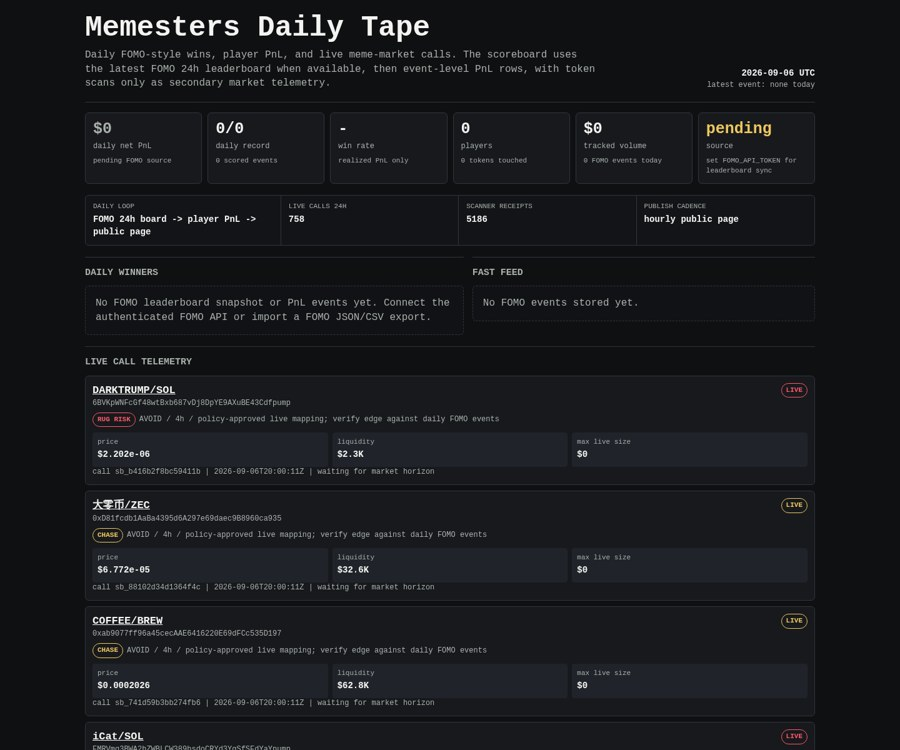
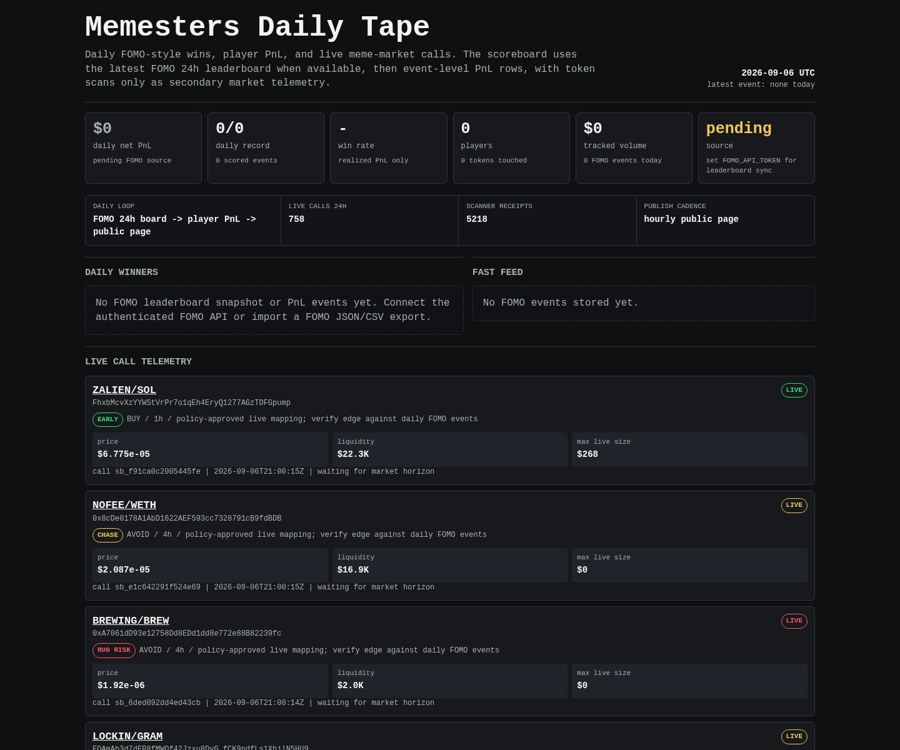
Update Memesters scoreboard

diff --git a/memesters/index.html b/memesters/index.html
@@ -150,7 +150,7 @@
     <div class="rail" aria-label="live operating loop">
       <div><span>daily loop</span><b>FOMO 24h board -> player PnL -> public page</b></div>
       <div><span>live calls 24h</span><b>758</b></div>
-      <div><span>scanner receipts</span><b>5186</b></div>
+      <div><span>scanner receipts</span><b>5218</b></div>
       <div><span>publish cadence</span><b>hourly public page</b></div>
     </div>
 
@@ -171,92 +171,8 @@
     <article class="receipt">
       <div class="receipt-head">
         <div>
-          <div class="pair"><a href="https://dexscreener.com/solana/bhqjzchm6eu9c7fbzj6pkftmfz7atuacqn2kdmsktrlm">DARKTRUMP/SOL</a></div>
-          <div class="addr">6BVKpWNFcGf48wtBxb687vDj8DpYE9AXuBE43Cdfpump</div>
-          <div class="addr policy-line">
-            <span class="badge rug-risk">RUG RISK</span>
-            <span>AVOID / 4h / policy-approved live mapping; verify edge against daily FOMO events</span>
-          </div>
-        </div>
-        <span class="badge rug-risk">LIVE</span>
-      </div>
-      <div class="receipt-grid">
-        <div class="kv"><span>price</span><b>$2.202e-06</b></div>
-        <div class="kv"><span>liquidity</span><b>$2.3K</b></div>
-        <div class="kv"><span>max live size</span><b>$0</b></div>
-      </div>
-      <div class="outcomes">call sb_b416b2f8bc59411b | 2026-09-06T20:00:11Z | waiting for market horizon</div>
-    </article>
-    
-
-    <article class="receipt">
-      <div class="receipt-head">
-        <div>
-          <div class="pair"><a href="https://dexscreener.com/bsc/0xbfc892627795a36b4a94a91487ffa52661dda88c">大零币/ZEC</a></div>
-          <div class="addr">0xD81fcdb1AaBa4395d6A297e69daec9B8960ca935</div>
-          <div class="addr policy-line">
-            <span class="badge chase">CHASE</span>
-            <span>AVOID / 4h / policy-approved live mapping; verify edge against daily FOMO events</span>
-          </div>
-        </div>
-        <span class="badge chase">LIVE</span>
-      </div>
-      <div class="receipt-grid">
-        <div class="kv"><span>price</span><b>$6.772e-05</b></div>
-        <div class="kv"><span>liquidity</span><b>$32.6K</b></div>
-        <div class="kv"><span>max live size</span><b>$0</b></div>
-      </div>
-      <div class="outcomes">call sb_88102d34d1364f4c | 2026-09-06T20:00:11Z | waiting for market horizon</div>
-    </article>
-    
-
-    <article class="receipt">
-      <div class="receipt-head">
-        <div>
-          <div class="pair"><a href="https://dexscreener.com/bsc/0x50ace85a000c68af9add2dbbb4101c5fd2e57eb6">COFFEE/BREW</a></div>
-          <div class="addr">0xab9077ff96a45cecAAE6416220E69dFCc535D197</div>
-          <div class="addr policy-line">
-            <span class="badge chase">CHASE</span>
-            <span>AVOID / 4h / policy-approved live mapping; verify edge against daily FOMO events</span>
-          </div>
-        </div>
-        <span class="badge chase">LIVE</span>
-      </div>
-      <div class="receipt-grid">
-        <div class="kv"><span>price</span><b>$0.0002026</b></div>
-        <div class="kv"><span>liquidity</span><b>$62.8K</b></div>
-        <div class="kv"><span>max live size</span><b>$0</b></div>
-      </div>
-      <div class="outcomes">call sb_741d59b3bb274fb6 | 2026-09-06T20:00:11Z | waiting for market horizon</div>
-    </article>
-    
-
-    <article class="receipt">
-      <div class="receipt-head">
-        <div>
-          <div class="pair"><a href="https://dexscreener.com/solana/68smt7tq5k9zxnkgbvra3v9uhskurddwa67oazkcanbv">iCat/SOL</a></div>
-          <div class="addr">FMRVmq3BWA2hZWBLCW389bsdoCRYd3YgSfSFdYaYpump</div>
-          <div class="addr policy-line">
-            <span class="badge rug-risk">RUG RISK</span>
-            <span>AVOID / 4h / policy-approved live mapping; verify edge against daily FOMO events</span>
-          </div>
-        </div>
-        <span class="badge rug-risk">LIVE</span>
-      </div>
-      <div class="receipt-grid">
-        <div class="kv"><span>price</span><b>$4.548e-05</b></div>
-        <div class="kv"><span>liquidity</span><b>$16.7K</b></div>
-        <div class="kv"><span>max live size</span><b>$0</b></div>
-      </div>
-      <div class="outcomes">call sb_9a498c8ea03a43ff | 2026-09-06T20:00:11Z | waiting for market horizon</div>
-    </article>
-    
-
-    <article class="receipt">
-      <div class="receipt-head">
-        <div>
-          <div class="pair"><a href="https://dexscreener.com/robinhood/0x9fe58c30e02c253a4e098702aa916cfbd4bddf6d3fdb0cb822a1bcc7a775e06a">ZSTOCK/ETH</a></div>
-          <div class="addr">0xe4e86C13CaADfC30B7211b80e839972423307258</div>
+          <div class="pair"><a href="https://dexscreener.com/solana/4gbepcuge1rgb8jdbmahrtfttazmf7r1r6ertteailel">ZALIEN/SOL</a></div>
+          <div class="addr">FhxbMcvXzYYWStVrPr7o1qEh4EryQ1277AGzTDFGpump</div>
           <div class="addr policy-line">
             <span class="badge early">EARLY</span>
             <span>BUY / 1h / policy-approved live mapping; verify edge against daily FOMO events</span>
@@ -265,19 +181,19 @@
         <span class="badge early">LIVE</span>
       </div>
       <div class="receipt-grid">
-        <div class="kv"><span>price</span><b>$3.239e-05</b></div>
-        <div class="kv"><span>liquidity</span><b>$16.6K</b></div>
-        <div class="kv"><span>max live size</span><b>$200</b></div>
+        <div class="kv"><span>price</span><b>$6.775e-05</b></div>
+        <div class="kv"><span>liquidity</span><b>$22.3K</b></div>
+        <div class="kv"><span>max live size</span><b>$268</b></div>
       </div>
-      <div class="outcomes">call sb_7ba06cbbcba84036 | 2026-09-06T20:00:11Z | waiting for market horizon</div>
+      <div class="outcomes">call sb_f91ca0c2005445fe | 2026-09-06T21:00:15Z | waiting for market horizon</div>
     </article>
     
 
     <article class="receipt">
       <div class="receipt-head">
         <div>
-          <div class="pair"><a href="https://dexscreener.com/robinhood/0x5d939105e4f5ebc4a9d635da350dcadb767e7aca">MEME/WETH</a></div>
-          <div class="addr">0xe51f1A416cC446B847830Dca4aF67844bac99e8F</div>
+          <div class="pair"><a href="https://dexscreener.com/robinhood/0x81d5896ec1144f598c20d7714dbfa65b41161168">NOFEE/WETH</a></div>
+          <div class="addr">0x8cDe0178A1AbD1622AEF593cc7328791cB9fdBDB</div>
           <div class="addr policy-line">
             <span class="badge chase">CHASE</span>
             <span>AVOID / 4h / policy-approved live mapping; verify edge against daily FOMO events</span>
@@ -286,19 +202,40 @@
         <span class="badge chase">LIVE</span>
       </div>
       <div class="receipt-grid">
-        <div class="kv"><span>price</span><b>$0.0001935</b></div>
-        <div class="kv"><span>liquidity</span><b>$44.4K</b></div>
+        <div class="kv"><span>price</span><b>$2.087e-05</b></div>
+        <div class="kv"><span>liquidity</span><b>$16.9K</b></div>
         <div class="kv"><span>max live size</span><b>$0</b></div>
       </div>
-      <div class="outcomes">call sb_ff81db9086754837 | 2026-09-06T20:00:11Z | waiting for market horizon</div>
+      <div class="outcomes">call sb_e1c642291f524e69 | 2026-09-06T21:00:15Z | waiting for market horizon</div>
     </article>
     
 
     <article class="receipt">
       <div class="receipt-head">
         <div>
-          <div class="pair"><a href="https://dexscreener.com/solana/iqjtch8688wdeh6szszgl2mrg4v2mexrl4wactnlgnm">AMC/SOL</a></div>
-          <div class="addr">FYmGPByNwL9hR8snVN6hnXTVGUE9u4XXPXgeDsuipump</div>
+          <div class="pair"><a href="https://dexscreener.com/bsc/0x62d81bc73188b59bba4ab0f55c0cb1421f5f1d7a">BREWING/BREW</a></div>
+          <div class="addr">0xA7061dD93e12758Dd8EDd1dd8e772e88B82239fc</div>
+          <div class="addr policy-line">
+            <span class="badge rug-risk">RUG RISK</span>
+            <span>AVOID / 4h / policy-approved live mapping; verify edge against daily FOMO events</span>
+          </div>
+        </div>
+        <span class="badge rug-risk">LIVE</span>
+      </div>
+      <div class="receipt-grid">
+        <div class="kv"><span>price</span><b>$1.92e-06</b></div>
+        <div class="kv"><span>liquidity</span><b>$2.0K</b></div>
+        <div class="kv"><span>max live size</span><b>$0</b></div>
+      </div>
+      <div class="outcomes">call sb_6ded092dd4ed43cb | 2026-09-06T21:00:14Z | waiting for market horizon</div>
+    </article>
+    
+
+    <article class="receipt">
+      <div class="receipt-head">
+        <div>
+          <div class="pair"><a href="https://dexscreener.com/ton/eqckj5g4vydzis-1xd13q8kxgzt7-xx_zpbky7sd3j-96xqj">LOCKIN/GRAM</a></div>
+          <div class="addr">EQAmAb3d7dEP8fMWOf42Jzxu8DyG_fCK9ndfLs1XhjlN5HU9</div>
           <div class="addr policy-line">
             <span class="badge chase">CHASE</span>
             <span>AVOID / 4h / policy-approved live mapping; verify edge against daily FOMO events</span>
@@ -307,19 +244,19 @@
         <span class="badge chase">LIVE</span>
       </div>
       <div class="receipt-grid">
-        <div class="kv"><span>price</span><b>$0.0001466</b></div>
-        <div class="kv"><span>liquidity</span><b>$31.4K</b></div>
+        <div class="kv"><span>price</span><b>$2.006e-05</b></div>
+        <div class="kv"><span>liquidity</span><b>$7.2K</b></div>
         <div class="kv"><span>max live size</span><b>$0</b></div>
       </div>
-      <div class="outcomes">call sb_2699d25231a940fd | 2026-09-06T20:00:10Z | waiting for market horizon</div>
+      <div class="outcomes">call sb_4e27c5b0ef604c77 | 2026-09-06T21:00:14Z | waiting for market horizon</div>
     </article>
     
 
     <article class="receipt">
       <div class="receipt-head">
         <div>
-          <div class="pair"><a href="https://dexscreener.com/bsc/0x7c077ff87005c2cd3a4320a3589bb60e4c2b5e3e">BREWDOG/WBNB</a></div>
-          <div class="addr">0xe5a77eb361050B3Ce8795a8C7Db9c661A79938Fe</div>
+          <div class="pair"><a href="https://dexscreener.com/solana/epi6srbyqt4ahj3mgx7p2n1mvntumzrliaje29ao51t9">GPT/OPENAI</a></div>
+          <div class="addr">8RAFGyzajpYX96ppL7MXEL5DwjBSnbAqjBTfhUXDhVYj</div>
           <div class="addr policy-line">
             <span class="badge chase">CHASE</span>
             <span>AVOID / 4h / policy-approved live mapping; verify edge against daily FOMO events</span>
@@ -328,19 +265,19 @@
         <span class="badge chase">LIVE</span>
       </div>
       <div class="receipt-grid">
-        <div class="kv"><span>price</span><b>$5.577e-05</b></div>
-        <div class="kv"><span>liquidity</span><b>$32.2K</b></div>
+        <div class="kv"><span>price</span><b>$0.0001102</b></div>
+        <div class="kv"><span>liquidity</span><b>$28.9K</b></div>
         <div class="kv"><span>max live size</span><b>$0</b></div>
       </div>
-      <div class="outcomes">call sb_8cef577cdb644bbf | 2026-09-06T20:00:10Z | waiting for market horizon</div>
+      <div class="outcomes">call sb_0be2772a7ce04050 | 2026-09-06T21:00:14Z | waiting for market horizon</div>
     </article>
     
 
     <article class="receipt">
       <div class="receipt-head">
         <div>
-          <div class="pair"><a href="https://dexscreener.com/solana/4wnwofbpbzkxr2kme8eglvwtvq98ph77ruabhkrar5iy">CATBILL/SOL</a></div>
-          <div class="addr">4Zeg8aX3gGuC9sjsTHBzTyS1fZ643CV72pEemhbYpump</div>
+          <div class="pair"><a href="https://dexscreener.com/robinhood/0x78eca497b0930bbebc59315f9e5c0da84d98e970">RBHINU/WETH</a></div>
+          <div class="addr">0x52033c53e4BC7CB92E4404c9C982042a57F1eB6a</div>
           <div class="addr policy-line">
             <span class="badge chase">CHASE</span>
             <span>AVOID / 4h / policy-approved live mapping; verify edge against daily FOMO events</span>
@@ -349,19 +286,19 @@
         <span class="badge chase">LIVE</span>
       </div>
       <div class="receipt-grid">
-        <div class="kv"><span>price</span><b>$0.0001938</b></div>
-        <div class="kv"><span>liquidity</span><b>$36.9K</b></div>
+        <div class="kv"><span>price</span><b>$1.918e-05</b></div>
+        <div class="kv"><span>liquidity</span><b>$13.6K</b></div>
         <div class="kv"><span>max live size</span><b>$0</b></div>
       </div>
-      <div class="outcomes">call sb_36da8f076b174cc9 | 2026-09-06T19:45:10Z | waiting for market horizon</div>
+      <div class="outcomes">call sb_d1ecc5e093ad4efd | 2026-09-06T21:00:14Z | waiting for market horizon</div>
     </article>
     
 
     <article class="receipt">
       <div class="receipt-head">
         <div>
-          <div class="pair"><a href="https://dexscreener.com/robinhood/0x1a2c0c8b09d87f413aaa5ad0d52f6ee9175ac86bd2f4aad6e705d02b4048ff51">MOG/HIMS</a></div>
-          <div class="addr">0xACa445CFD67cA870efA180c67888056B092ba96B</div>
+          <div class="pair"><a href="https://dexscreener.com/robinhood/0x817e1c409446c281f95941d782974ca9cdfe69421379928c607ca21ba0124be6">AGI/NVDA</a></div>
+          <div class="addr">0x7c591C160B8d902963dBfCA003D218EC36a42C2F</div>
           <div class="addr policy-line">
             <span class="badge chase">CHASE</span>
             <span>AVOID / 4h / policy-approved live mapping; verify edge against daily FOMO events</span>
@@ -370,11 +307,74 @@
         <span class="badge chase">LIVE</span>
       </div>
       <div class="receipt-grid">
-        <div class="kv"><span>price</span><b>$9.54e-05</b></div>
-        <div class="kv"><span>liquidity</span><b>$28.0K</b></div>
+        <div class="kv"><span>price</span><b>$2.712e-05</b></div>
+        <div class="kv"><span>liquidity</span><b>$14.4K</b></div>
         <div class="kv"><span>max live size</span><b>$0</b></div>
       </div>
-      <div class="outcomes">call sb_59802ac52d5f4a4a | 2026-09-06T19:45:10Z | waiting for market horizon</div>
+      <div class="outcomes">call sb_92dc1fb0b1574694 | 2026-09-06T21:00:14Z | waiting for market horizon</div>
+    </article>
+    
+
+    <article class="receipt">
+      <div class="receipt-head">
+        <div>
+          <div class="pair"><a href="https://dexscreener.com/bsc/0x329789fd40ce008009b76d3a42f107bff4c0c183">DICKBUTT/MarsCoin</a></div>
+          <div class="addr">0xDEAFfB85F33C5d6c9dD2214A1b3A0da3E8AE37D4</div>
+          <div class="addr policy-line">
+            <span class="badge rug-risk">RUG RISK</span>
+            <span>AVOID / 4h / policy-approved live mapping; verify edge against daily FOMO events</span>
+          </div>
+        </div>
+        <span class="badge rug-risk">LIVE</span>
+      </div>
+      <div class="receipt-grid">
+        <div class="kv"><span>price</span><b>$1.84e-05</b></div>
+        <div class="kv"><span>liquidity</span><b>$14.5K</b></div>
+        <div class="kv"><span>max live size</span><b>$0</b></div>
+      </div>
+      <div class="outcomes">call sb_7989f3fb48744feb | 2026-09-06T21:00:14Z | waiting for market horizon</div>
+    </article>
+    
+
+    <article class="receipt">
+      <div class="receipt-head">
+        <div>
+          <div class="pair"><a href="https://dexscreener.com/base/0x8c7bc60639a2732e452127dd724a03b0e9e6ca36">ZUCCSTRAT/METAc</a></div>
+          <div class="addr">0xad76cE53BD58B44B7eb045ab262cD2C78ee117a4</div>
+          <div class="addr policy-line">
+            <span class="badge early">EARLY</span>
+            <span>BUY / 1h / policy-approved live mapping; verify edge against daily FOMO events</span>
+          </div>
+        </div>
+        <span class="badge early">LIVE</span>
+      </div>
+      <div class="receipt-grid">
+        <div class="kv"><span>price</span><b>$8.546e-06</b></div>
+        <div class="kv"><span>liquidity</span><b>$7.7K</b></div>
+        <div class="kv"><span>max live size</span><b>$25</b></div>
+      </div>
+      <div class="outcomes">call sb_1525cda823f04990 | 2026-09-06T20:45:10Z | waiting for market horizon</div>
+    </article>
+    
+
+    <article class="receipt">
+      <div class="receipt-head">
+        <div>
+          <div class="pair"><a href="https://dexscreener.com/robinhood/0x79a8e6e4b929d55f4028573513e5a4f77806c0ecd607e7c3d068b7a11cfa022f">$OSAI/ETH</a></div>
+          <div class="addr">0xb5379Df00F8DDf88209eae1a69eA37087e83647e</div>
+          <div class="addr policy-line">
+            <span class="badge chase">CHASE</span>
+            <span>AVOID / 4h / policy-approved live mapping; verify edge against daily FOMO events</span>
+          </div>
+        </div>
+        <span class="badge chase">LIVE</span>
+      </div>
+      <div class="receipt-grid">
+        <div class="kv"><span>price</span><b>$0.0001297</b></div>
+        <div class="kv"><span>liquidity</span><b>$50.8K</b></div>
+        <div class="kv"><span>max live size</span><b>$0</b></div>
+      </div>
+      <div class="outcomes">call sb_e31dace333514b03 | 2026-09-06T20:45:10Z | waiting for market horizon</div>
     </article>
     
     </section>
